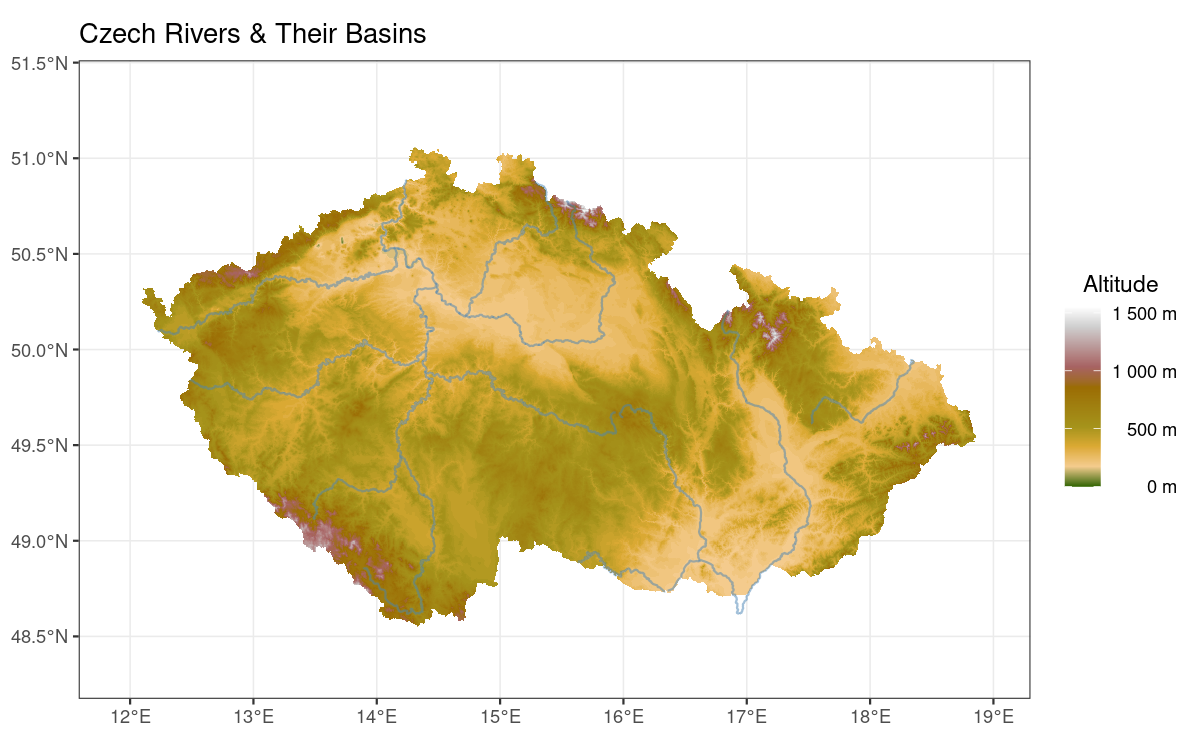
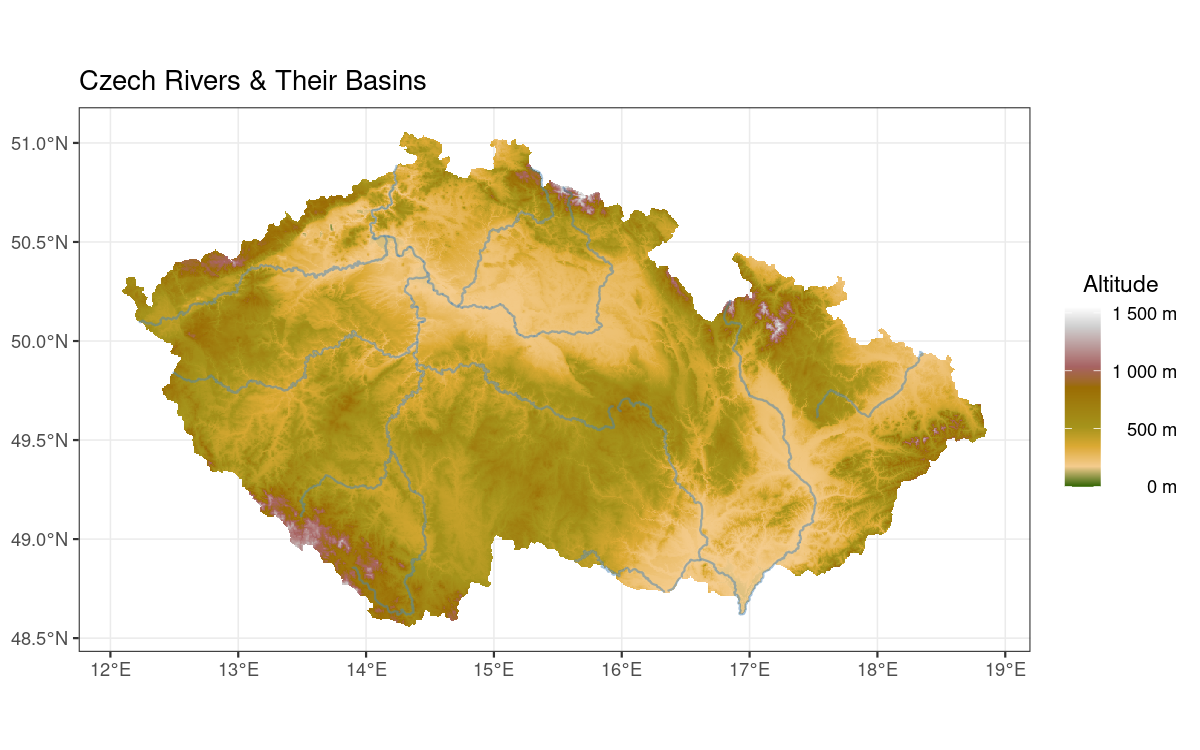
close terrain dem (#49)
* raster digest working in principle

* reliéfy se vcelku líbí

* tests complete locally

* vignette updated

* tests rewrite

* typo tuning

diff --git a/README.md b/README.md
@@ -48,12 +48,12 @@ You can also get the latest development version by running `remotes::install_git
 administrative:
 
 * **republika**: borders of the Czech Republic as a polygon
-* **kraje**: 14 regions of the Czech Republic & Prague.  
-* **okresy**: 76 districts (LAU1 areas) of the Czech Republic + Prague (legally not *a district* but *the capital*).  
-* **orp_polygony** 205 municipalities with extended powers (in Czech: obce s rozšířenou působností) + Prague (legally not *a city* but *the capital*).  
-* **obce_polygony**: 6.258 municipalities of the Czech Republic.  
-* **obce_body** the same as obce_polygony, but centroids instead of polygons.  
-* **casti**: primarily 57 city parts of Prague, but also of other cities with defined parts (Brno, Ostrava and other).  
+* **kraje**: 14 regions of the Czech Republic & Prague  
+* **okresy**: 76 districts (LAU1 areas) of the Czech Republic + Prague (legally not *a district* but *the capital*)  
+* **orp_polygony** 205 municipalities with extended powers (in Czech: obce s rozšířenou působností) + Prague (legally not *a city* but *the capital*)  
+* **obce_polygony**: 6.258 municipalities of the Czech Republic  
+* **obce_body** the same as obce_polygony, but centroids instead of polygons  
+* **casti**: primarily 57 city parts of Prague, but also of other cities with defined parts (Brno, Ostrava and other)  
 * **senat_obvody**: 81 senate districts (volební obvody senátu)
 * **volebni_okrsky**: 14.761 general election districts (volební okrsky)
 * **zip_codes**: 2.671 ZIP code areas (poštovní směrovací čísla / PSČ)
@@ -67,7 +67,7 @@ natural:
 * **chr_uzemi**: protected natural areas (chráněná území)
 * **lesy**: woodland areas (more than 30 ha in area)
 * **KFME_grid**: KFME grid cells (faunistické čtverce)
-* **vyskopis**: terrain of the Czech republic as a {raster} package object
+* **vyskopis**: terrain of the Czech republic as a {terra} package raster object
 
 
 All objects are implemented as functions returning data frames, so must be followed by brackets (i.e. `hranice <- republika()`).

diff --git a/NEWS.md b/NEWS.md
@@ -1,3 +1,9 @@
+## version 1.10.0 (2022-11-25)
+
+ - rasters - vyskopis("actual") and vyskopis("rayshaded") - are based on EU-DEM data, instead of the former ARC ČR 500
+ 
+ - dependency on {raster} replaced by newer {terra} package
+
 ## version 1.9.4 (2022-10-06)
 
  - fixes incorrect behavior of Vltava in Prague
